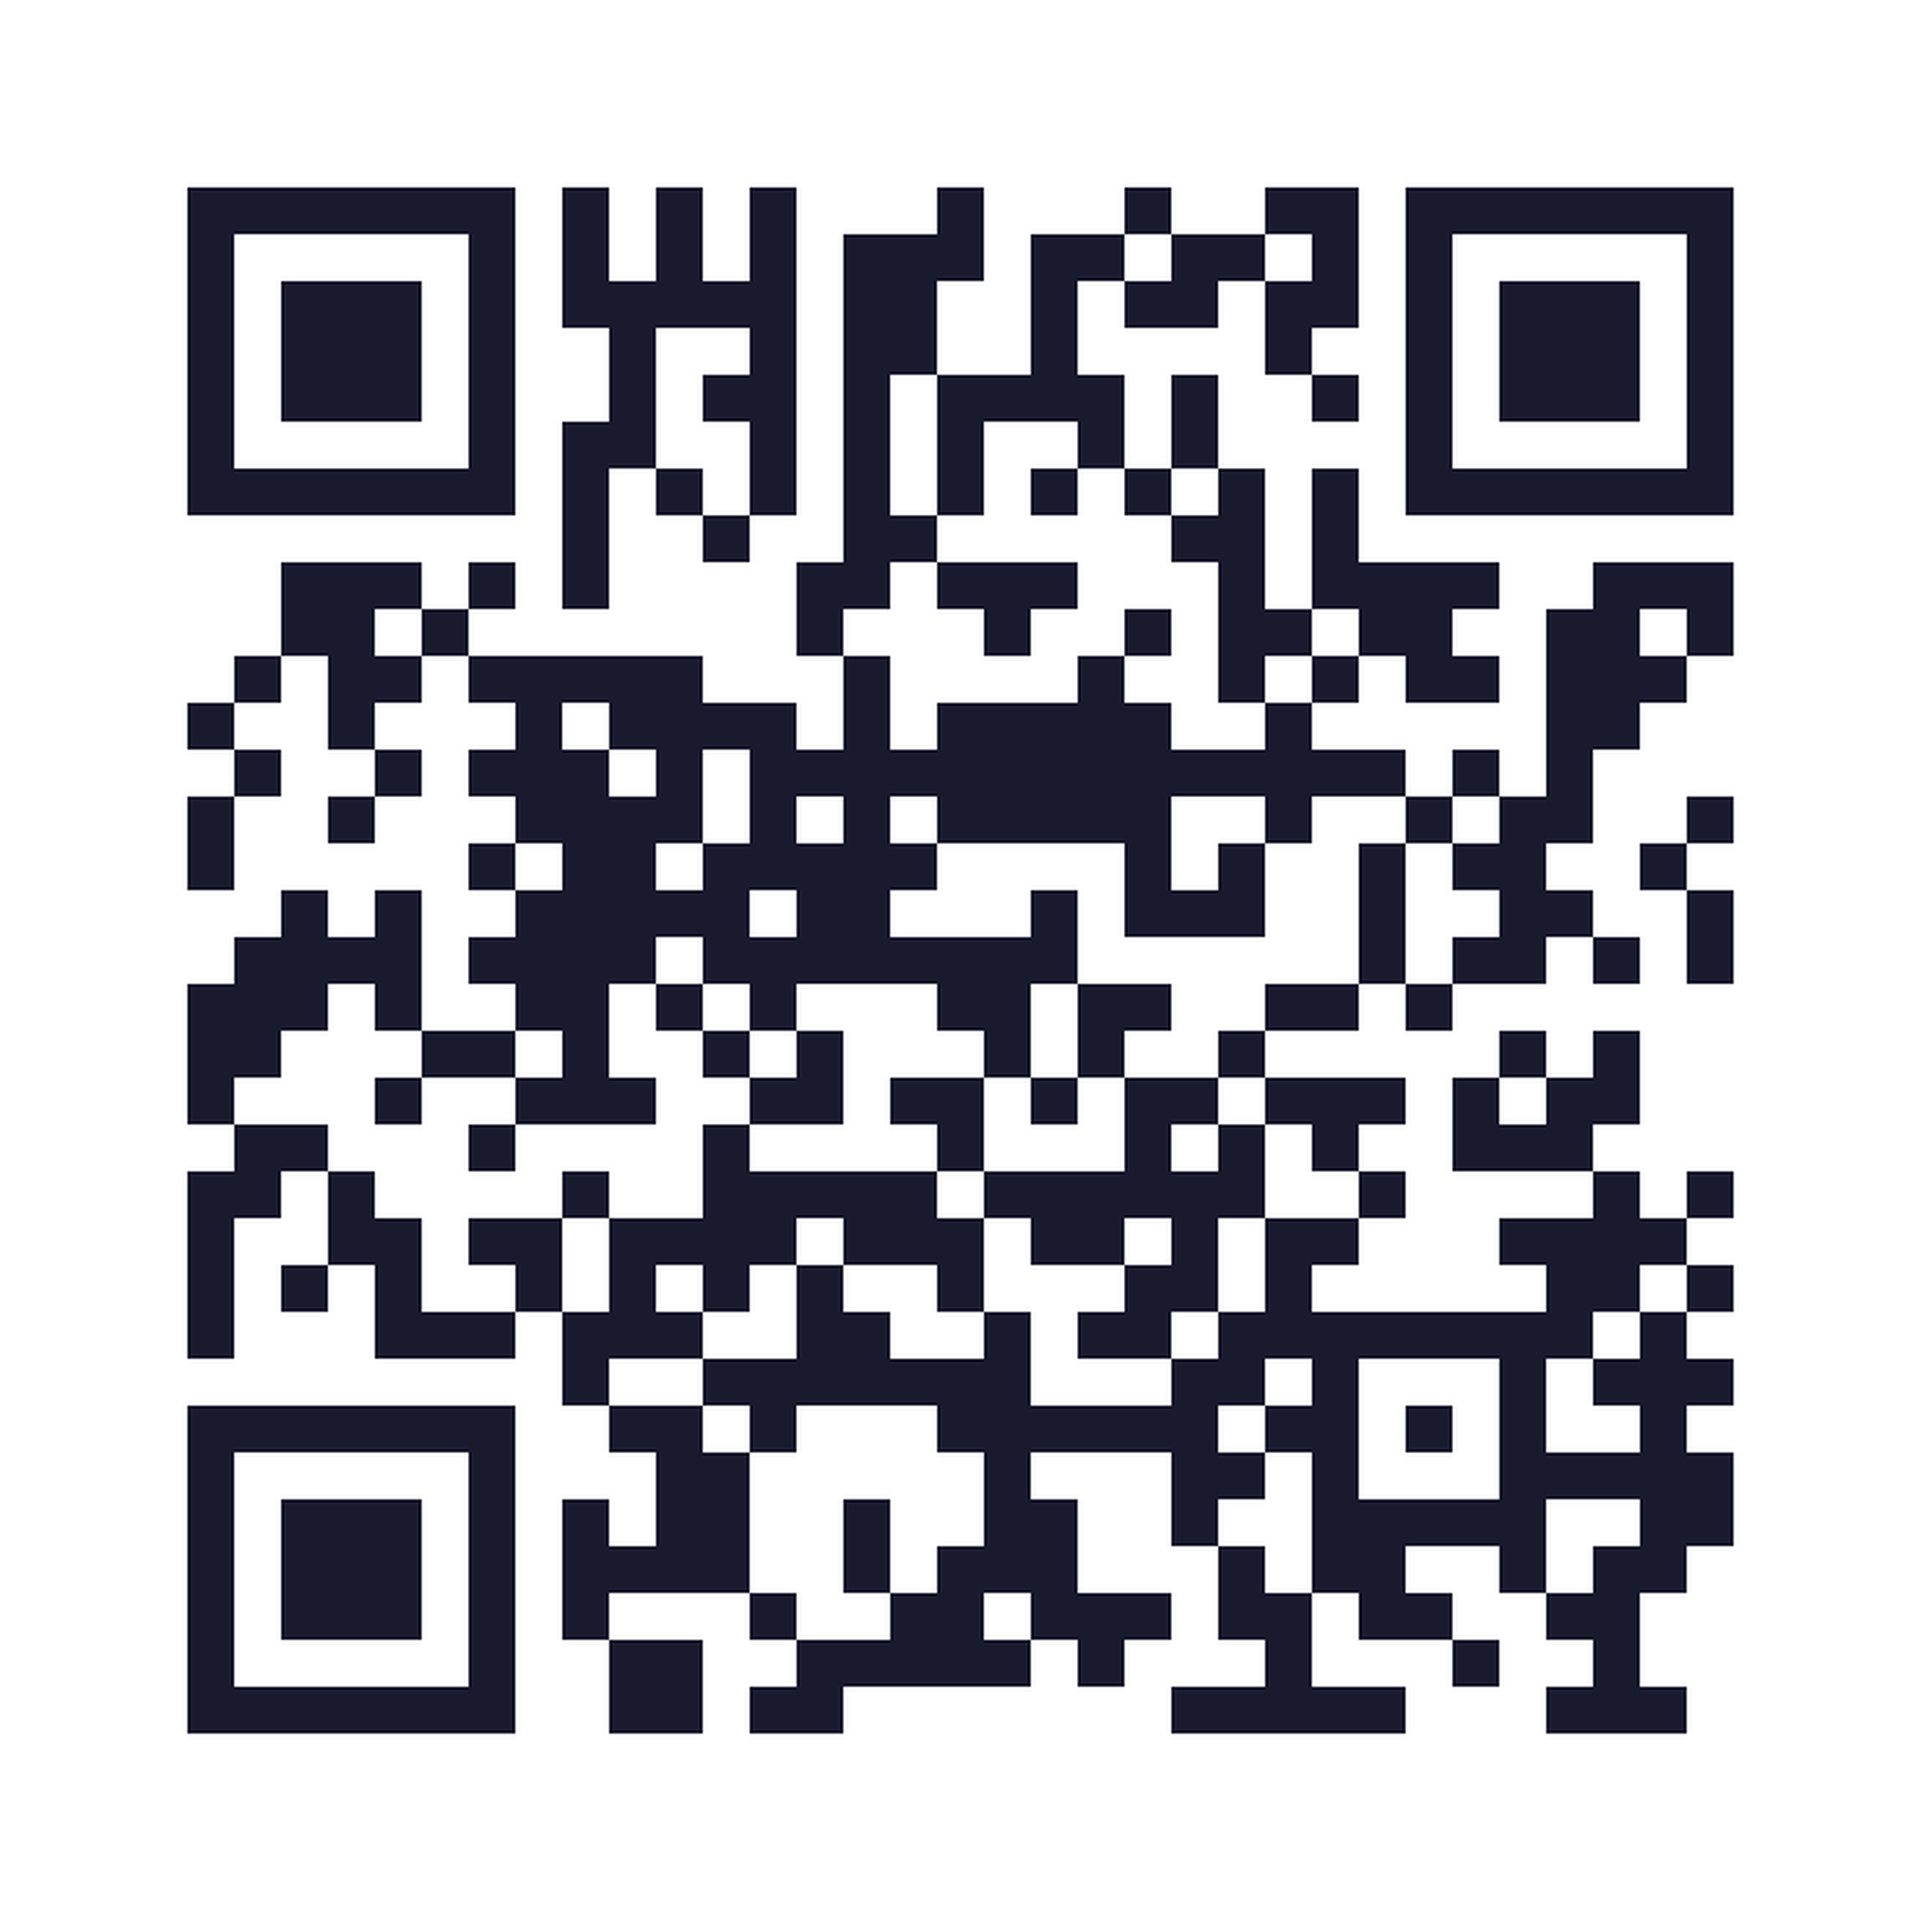
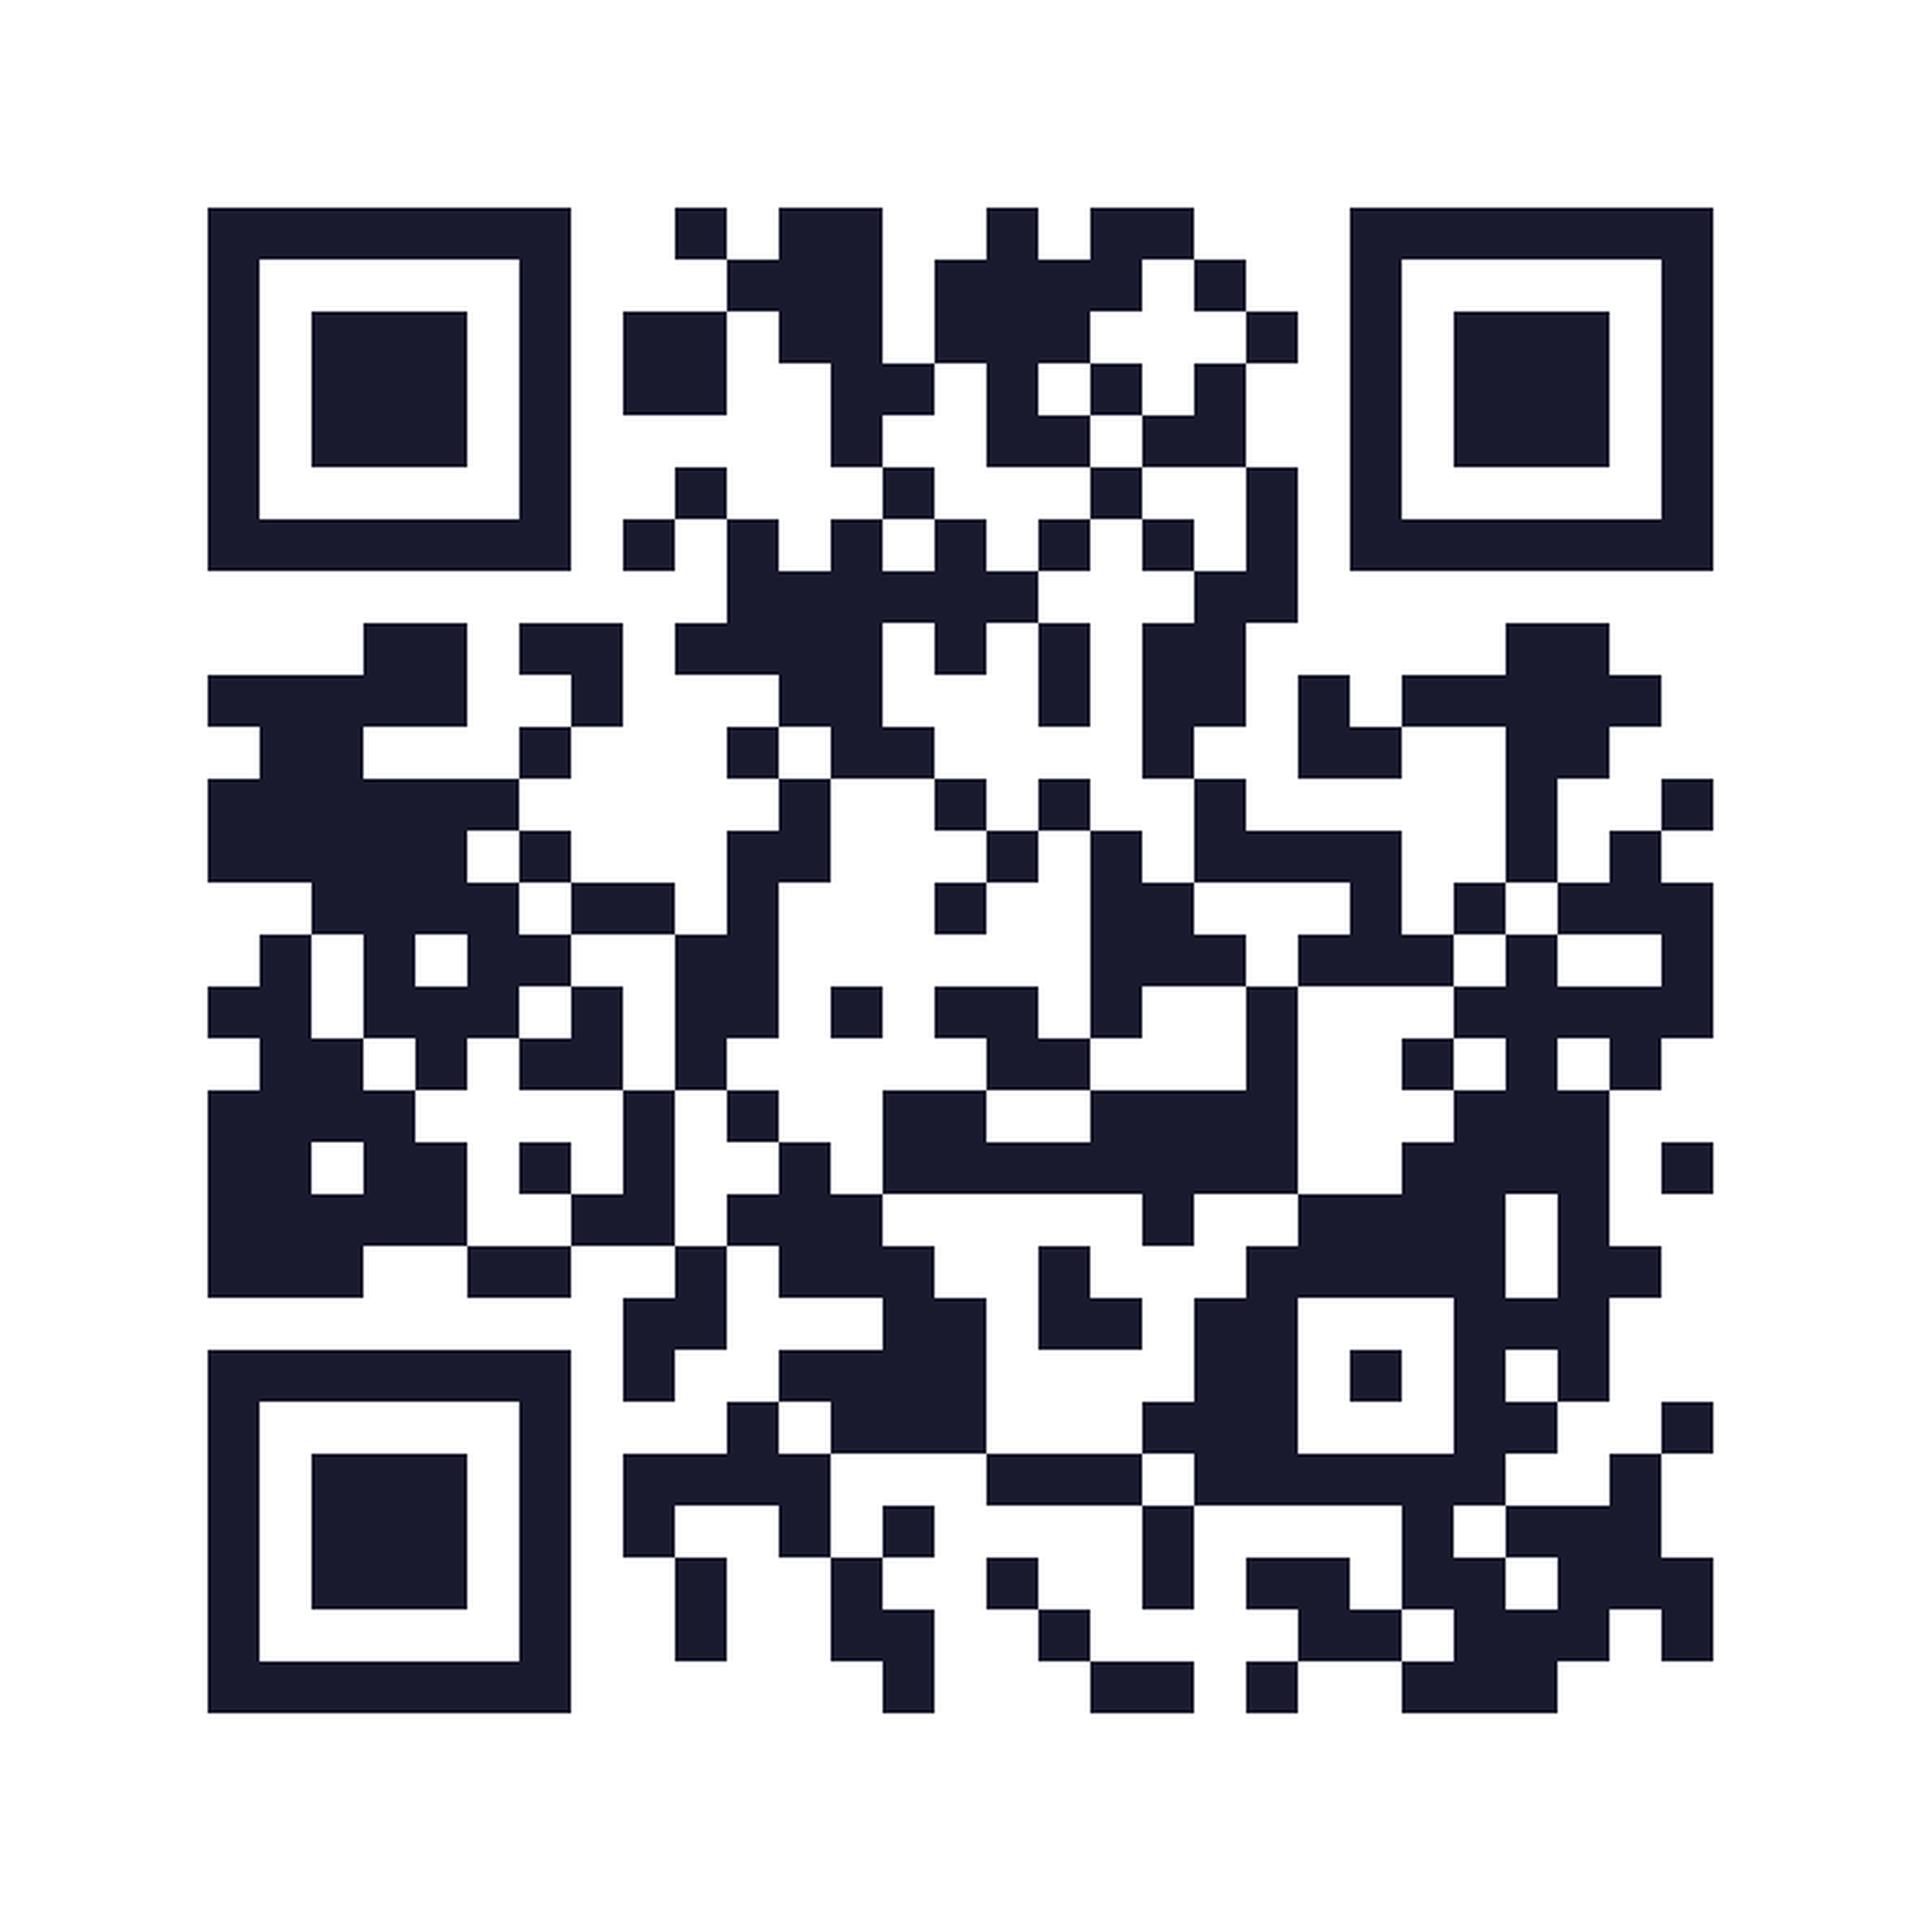
Switch site to the new domain: pawhaulstore.com (task 130)
Every pawhaul.vercel.app reference in the codebase now points at the
live custom domain:

- api/_seo.js: ORIGIN and PROD_HOST (the single source of truth every
  canonical URL, Open Graph tag, JSON-LD @id/url, and X-Robots behavior
  is built from) updated — this alone cascades correctly through
  sitemap.xml and feed.xml too, since both read seo.ORIGIN/seo.PROD_HOST
  rather than hardcoding the domain themselves.
- products.js: SHARE_ORIGIN (the product share button's URL) updated;
  a stale comment referencing the old domain in a curl example fixed.
- robots.txt: header comment and the Sitemap: line.
- scripts/social/fetch-video.js, meta-reel.js: example commands and the
  default caption text.
- scripts/make_qr.py: the encoded URL, and the three QR files themselves
  were regenerated (pawhaul-qr.png, pawhaul-qr-logo.png, pawhaul-qr.svg)
  so they actually encode the new address, not just the source string.
- marketing/welcome-email-sequence.md, MARKETING-SETUP.md: every button
  link and setup-instruction URL.
- vercel.json: added a host-matched 301 (pawhaul.vercel.app -> the same
  path on pawhaulstore.com) as the first route, so it short-circuits
  before anything else runs. This is a code-level backup — Vercel's own
  project Domains settings also offer a "redirect to primary domain"
  toggle that handles this at the edge without invoking a function at
  all, which I'd still recommend turning on there; I can't verify from
[…]

diff --git a/scripts/social/meta-reel.js b/scripts/social/meta-reel.js
@@ -24,7 +24,7 @@
  *     Meta's servers fetch themselves.
  *   The simplest zero-cost way to satisfy Instagram is to commit the file to
  *   marketing/video/ and deploy — Vercel then serves it at
- *   https://pawhaul.vercel.app/marketing/video/<name>.mp4, which is a perfectly
+ *   https://pawhaulstore.com/marketing/video/<name>.mp4, which is a perfectly
  *   good public URL. Pass that with --video-url.
  *
  * REEL SPEC (enforced by Meta, not by this script):
@@ -34,7 +34,7 @@
  * USAGE
  *   node scripts/social/meta-reel.js --check
  *   node scripts/social/meta-reel.js --video ./marketing/video/walk.mp4 \
- *        --video-url https://pawhaul.vercel.app/marketing/video/walk.mp4 \
+ *        --video-url https://pawhaulstore.com/marketing/video/walk.mp4 \
  *        --caption "Every walk essential in one kit 🐾" --both
  *   ...add --live to actually publish. Default is a dry run.
  *
@@ -70,7 +70,7 @@ function opt(n, d) { const i = argv.indexOf('--' + n); return i !== -1 && argv[i
 const LIVE = flag('live');
 const VIDEO = opt('video', null);
 const VIDEO_URL = opt('video-url', null);
-const CAPTION = opt('caption', 'New walk gear from PawHaul 🐾 pawhaul.vercel.app');
+const CAPTION = opt('caption', 'New walk gear from PawHaul 🐾 pawhaulstore.com');
 
 const sleep = ms => new Promise(r => setTimeout(r, ms));
 

diff --git a/index.html b/index.html
@@ -241,7 +241,7 @@ function heroSlideError(img) {
        character-for-character (version query included) or the browser fetches
        each file twice. -->
   <link rel="preload" as="script" href="/blog.js?v=10">
-  <link rel="preload" as="script" href="/products.js?v=93">
+  <link rel="preload" as="script" href="/products.js?v=94">
   <link rel="preload" as="script" href="/app.js?v=79">
   <script>setTimeout(function(){document.documentElement.classList.remove('no-flash');}, 300);</script>
   <!-- The home page's 10% off box has TWO states and both ship in the markup,
@@ -1455,7 +1455,7 @@ function heroSlideError(img) {
        from products.js so the server-side renderer can read one file for
        posts and one for products — see api/_seo.js. -->
   <script src="/blog.js?v=10"></script>
-  <script src="/products.js?v=93"></script>
+  <script src="/products.js?v=94"></script>
   <script src="/app.js?v=79"></script>
   <!-- EmailJS is only needed once someone actually submits the contact form or
        the 10%-off box, so it's deferred and loaded LAST. It used to sit above

diff --git a/scripts/social/fetch-video.js b/scripts/social/fetch-video.js
@@ -30,7 +30,7 @@
  *   git add marketing/video && git commit && git push     (Vercel auto-deploys)
  *   node scripts/social/meta-reel.js \
  *     --video ./marketing/video/<name>.mp4 \
- *     --video-url https://pawhaul.vercel.app/marketing/video/<name>.mp4 \
+ *     --video-url https://pawhaulstore.com/marketing/video/<name>.mp4 \
  *     --caption "..." --both --live
  */
 
@@ -98,5 +98,5 @@ console.log('  1. Check it is 9:16 and 5-90s, or it will not land in the Reels t
 console.log('  2. git add marketing/video && git commit -m "reel: ' + name + '" && git push');
 console.log('  3. node scripts/social/meta-reel.js \\');
 console.log('       --video ./marketing/video/' + name + '.mp4 \\');
-console.log('       --video-url https://pawhaul.vercel.app/marketing/video/' + name + '.mp4 \\');
+console.log('       --video-url https://pawhaulstore.com/marketing/video/' + name + '.mp4 \\');
 console.log('       --caption "your caption" --both --live');

diff --git a/api/_seo.js b/api/_seo.js
@@ -38,8 +38,8 @@ const crypto = require('crypto');
 // request Host header: preview deployments must not emit canonicals/OG URLs
 // pointing at themselves (that is how a preview build ends up competing with
 // production in the index). isProductionHost() below noindexes them instead.
-const ORIGIN = 'https://pawhaul.vercel.app';
-const PROD_HOST = 'pawhaul.vercel.app';
+const ORIGIN = 'https://pawhaulstore.com';
+const PROD_HOST = 'pawhaulstore.com';
 const BRAND = 'PawHaul';
 const SUPPORT_EMAIL = 'pawhaulsupport@gmail.com';
 const DEFAULT_OG = ORIGIN + '/images/og/pawhaul-og.jpg';

diff --git a/scripts/make_qr.py b/scripts/make_qr.py
@@ -36,7 +36,7 @@ from qrcode.image.styledpil import StyledPilImage
 from qrcode.image.svg import SvgPathImage
 from PIL import Image, ImageDraw
 
-URL = "https://pawhaul.vercel.app"
+URL = "https://pawhaulstore.com"
 NAVY = "#1a1a2e"
 ORANGE = "#E8630A"
 WHITE = "#FFFFFF"

diff --git a/MARKETING-SETUP.md b/MARKETING-SETUP.md
@@ -73,14 +73,14 @@ here, which pages Google has actually indexed, and any indexing problems. This
 is the single most useful account on the list.
 
 1. [search.google.com/search-console](https://search.google.com/search-console)
-   → **Add property** → **URL prefix** → `https://pawhaul.vercel.app`
+   → **Add property** → **URL prefix** → `https://pawhaulstore.com`
 2. Choose the **HTML tag** verification method. Copy the value out of
    `content="..."`.
 3. Paste it into `SITE_VERIFICATION.google` in `api/_seo.js`, push, wait for
    the deploy.
 4. Back in Search Console → **Verify**.
 5. Left sidebar → **Sitemaps** → enter `sitemap.xml` → **Submit**.
-6. Left sidebar → **URL inspection** → paste `https://pawhaul.vercel.app/` →
+6. Left sidebar → **URL inspection** → paste `https://pawhaulstore.com/` →
    **Request indexing**. Repeat for `/shop` and each blog post. This is the
    fastest way to get first crawled.
 
@@ -117,7 +117,7 @@ one unless you decide to spend money.
 
 1. [merchants.google.com](https://merchants.google.com) → create an account for
    PawHaul.
-2. **Business info** → website `https://pawhaul.vercel.app`. It should verify
+2. **Business info** → website `https://pawhaulstore.com`. It should verify
    instantly via the Search Console property from item 2 — another reason to do
    that one first.
 3. **Shipping**: add a US shipping service at **$0.00**. This must match the
@@ -125,7 +125,7 @@ one unless you decide to spend money.
    a mismatch.
 4. **Returns**: 30 days, return by mail — matching the published policy.
 5. **Products** → **Add product source** → **Scheduled fetch**:
-   * Feed URL: `https://pawhaul.vercel.app/feed.xml`
+   * Feed URL: `https://pawhaulstore.com/feed.xml`
    * Country: United States · Language: English · Frequency: daily
 6. Fetch it once manually and read the results.
 
@@ -181,7 +181,7 @@ Skip it if item 1 is enough for you; it does add a cookie banner obligation in
 some jurisdictions, which Vercel Analytics does not.
 
 1. [analytics.google.com](https://analytics.google.com) → create a property →
-   **Admin** → **Data Streams** → **Web** → `https://pawhaul.vercel.app`.
+   **Admin** → **Data Streams** → **Web** → `https://pawhaulstore.com`.
 2. Copy the **Measurement ID** (`G-XXXXXXXXXX`).
 3. Paste into `window.GA4_ID = ''` in `index.html`, push.
 
@@ -269,7 +269,7 @@ come back to this only if Reels turn out to be a channel that works for you.
 
 `marketing/pawhaul-qr.png` (plain), `pawhaul-qr-logo.png` (paw badge in the
 centre), `pawhaul-qr.svg` (vector — this is the one to hand a printer). All
-point at `https://pawhaul.vercel.app`.
+point at `https://pawhaulstore.com`.
 
 Regenerate any time with `python scripts/make_qr.py`.
 

diff --git a/marketing/welcome-email-sequence.md b/marketing/welcome-email-sequence.md
@@ -48,7 +48,7 @@ condition is a step you add in the automation editor, not something in the copy.
 > that don't leak in a bag, collars you can actually see from down the street.
 > No dog beds, no toys, no filler.
 
-**Button:** Shop walk gear → `https://pawhaul.vercel.app/shop`
+**Button:** Shop walk gear → `https://pawhaulstore.com/shop`
 
 **Footer line:** Questions about an order? Just reply, or email
 pawhaulsupport@gmail.com — we answer within 24 hours.
@@ -81,11 +81,11 @@ pawhaulsupport@gmail.com — we answer within 24 hours.
 >
 > Want two? The LED collar and LED leash, the water bottle and poop bag clip,
 > the water bottle and the foldable bowl, or the LED leash and wrist strap
-> come together as bundles: `https://pawhaul.vercel.app/bundles`
+> come together as bundles: `https://pawhaulstore.com/bundles`
 >
 > **WELCOME10** still works — 10% off, free shipping.
 
-**Button:** See all five → `https://pawhaul.vercel.app/shop`
+**Button:** See all five → `https://pawhaulstore.com/shop`
 
 ---
 
@@ -101,15 +101,15 @@ pawhaulsupport@gmail.com — we answer within 24 hours.
 > We wrote this because we kept answering it: here's what's actually worth
 > carrying on a walk, sorted by how long you're going out for.
 >
-> **[Read: What to Bring on a Dog Walk →](https://pawhaul.vercel.app/blog/what-to-bring-on-a-dog-walk-checklist)**
+> **[Read: What to Bring on a Dog Walk →](https://pawhaulstore.com/blog/what-to-bring-on-a-dog-walk-checklist)**
 >
 > Two more that answer the questions we get most:
-> • [How much water does a dog need on a walk?](https://pawhaul.vercel.app/blog/how-much-water-does-a-dog-need-on-a-walk)
-> • [How to stop a dog pulling on the leash](https://pawhaul.vercel.app/blog/how-to-stop-a-dog-pulling-on-the-leash)
+> • [How much water does a dog need on a walk?](https://pawhaulstore.com/blog/how-much-water-does-a-dog-need-on-a-walk)
+> • [How to stop a dog pulling on the leash](https://pawhaulstore.com/blog/how-to-stop-a-dog-pulling-on-the-leash)
 >
 > And if you still want it: **WELCOME10** takes 10% off anything in the shop.
 
-**Button:** Shop walk gear → `https://pawhaul.vercel.app/shop`
+**Button:** Shop walk gear → `https://pawhaulstore.com/shop`
 
 ---
 
